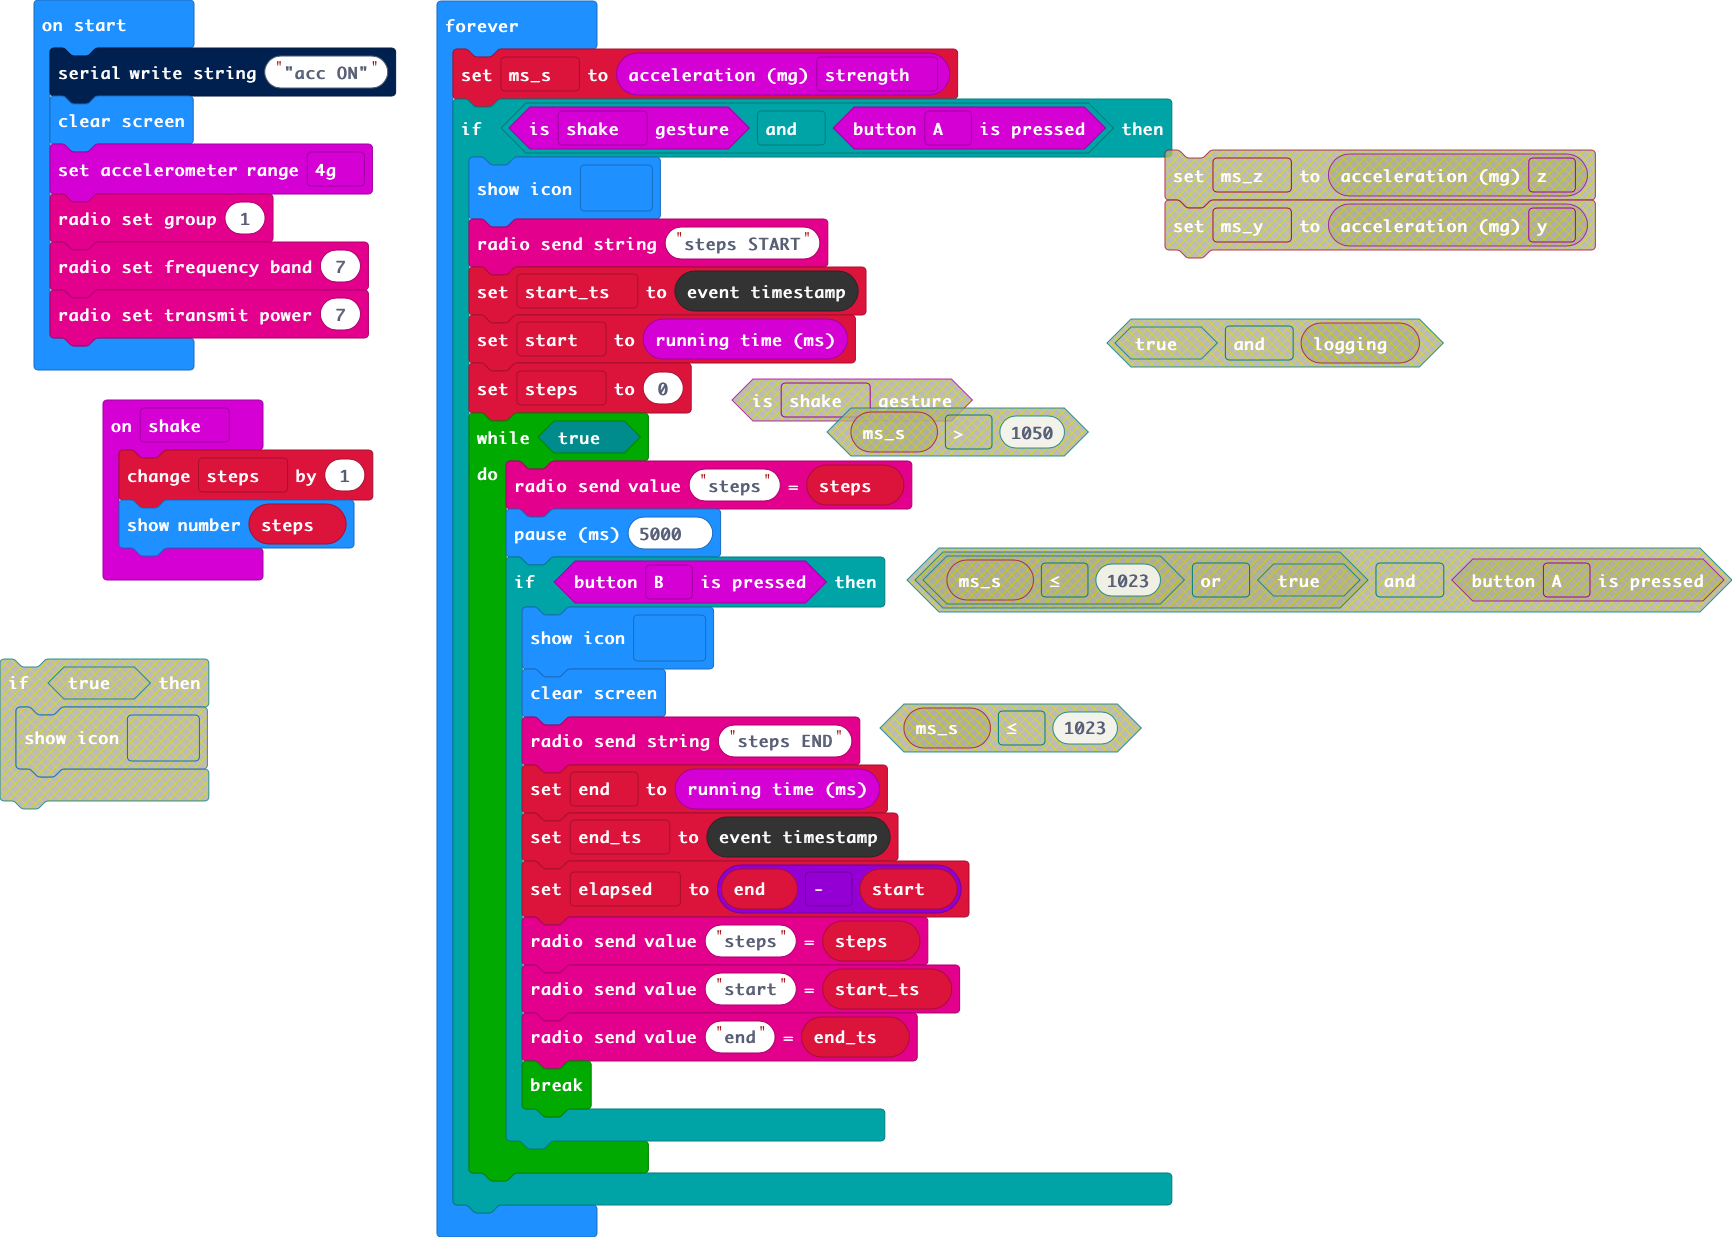
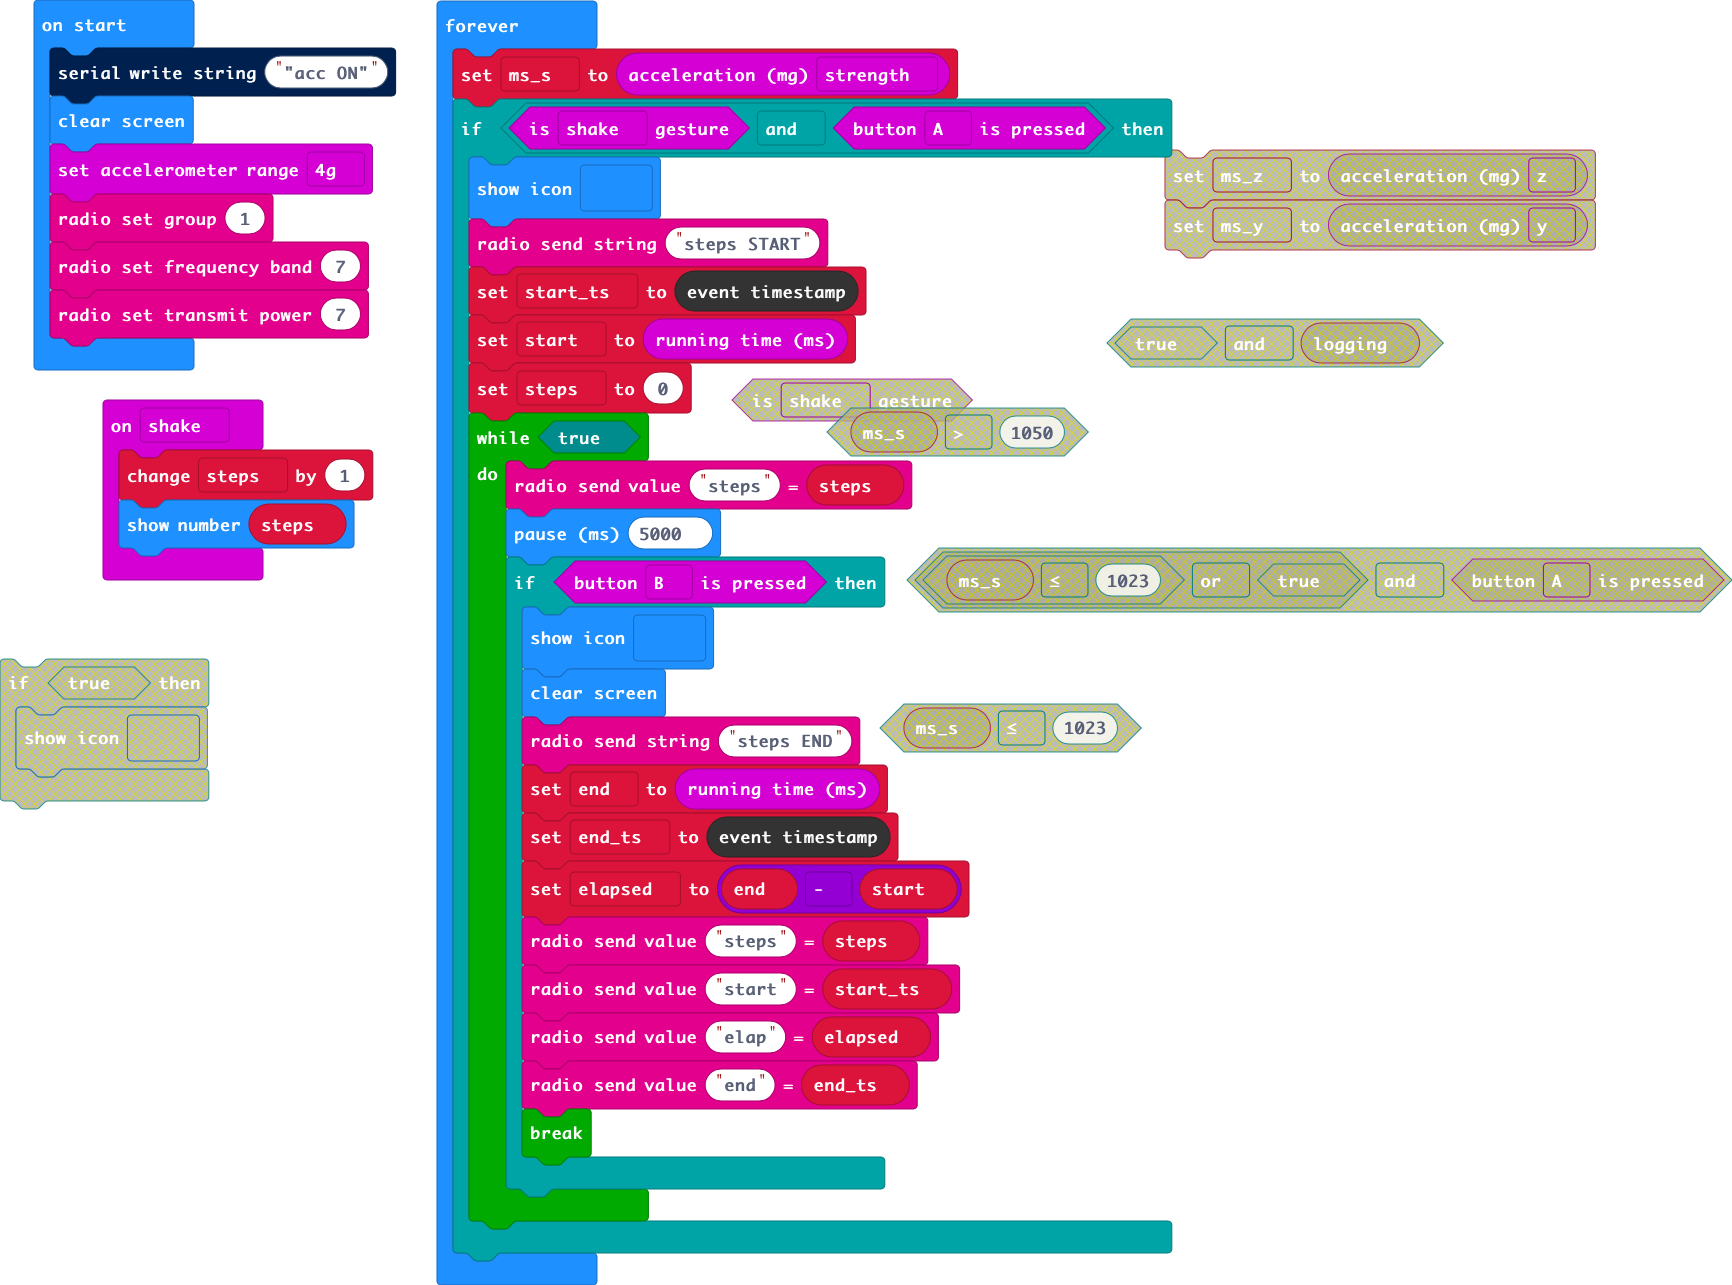
add elapsed

Changed region(s): [[0.2494, 0.0307, 1.0, 0.9523], [0.0, 0.0307, 0.2182, 0.6758], [0.6236, 0.2458, 0.8418, 0.3072]]

diff --git a/main.ts b/main.ts
@@ -35,6 +35,7 @@ basic.forever(function () {
                 elapsed = end - start
                 radio.sendValue("steps", steps)
                 radio.sendValue("start", start_ts)
+                radio.sendValue("elap", elapsed)
                 radio.sendValue("end", end_ts)
                 break;
             }
